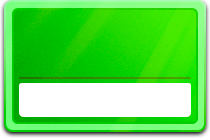
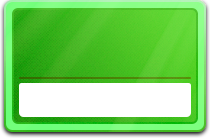
new colors

diff --git a/app/Services/Game/Menu.php b/app/Services/Game/Menu.php
@@ -140,20 +140,29 @@ class Menu {
         ];
 
         if($game->isMenu('color')) {
-            $array = [];
+            $line = [];
+            $i = 0;
             foreach(Game::COLORS as $color => $emoji) {
+                $i++;
                 if(in_array($color, ['white', 'black'])) {
                     continue;
                 }
-                $array[] = [
+                $line[] = [
                     'text' => $emoji,
                     'callback_data' => CDM::toString([
                         CDM::EVENT => CDM::CHANGE_COLOR,
                         CDM::TEXT => $color
                     ])
                 ];
+                if($i>=5) {
+                    $buttonsArray[] = $line;
+                    $line = [];
+                    $i = 0;
+                }
             }
-            $buttonsArray[] = $array;
+            if(!empty($line)) {
+                $buttonsArray[] = $line;
+            }
         }
 
         $line = [];

diff --git a/database/migrations/2024_05_01_204922_new_colors_to_games_table.php b/database/migrations/2024_05_01_204922_new_colors_to_games_table.php
@@ -1,0 +1,34 @@
+<?php
+
+use Illuminate\Database\Migrations\Migration;
+use Illuminate\Database\Schema\Blueprint;
+use Illuminate\Support\Facades\Schema;
+
+class NewColorsToGamesTable extends Migration
+{
+    /**
+     * Run the migrations.
+     *
+     * @return void
+     */
+    public function up()
+    {
+        Schema::table('games', function (Blueprint $table) {
+            $table->string('color_a', 6)->default('red')->change();
+            $table->string('color_b', 6)->default('blue')->change();
+        });
+    }
+
+    /**
+     * Reverse the migrations.
+     *
+     * @return void
+     */
+    public function down()
+    {
+        Schema::table('games', function (Blueprint $table) {
+            $table->enum('color_a', ['purple', 'orange', 'red', 'blue', 'green', 'yellow'])->default('purple')->change();
+            $table->enum('color_b', ['purple', 'orange', 'red', 'blue', 'green', 'yellow'])->default('orange')->change();
+        });
+    }
+}

diff --git a/app/Models/Game.php b/app/Models/Game.php
@@ -18,12 +18,15 @@ class Game extends Model
     use HasFactory;
 
     const COLORS = [
+        'red' => '🔴',
         'purple' => '🟣',
         'orange' => '🟠',
-        'red' => '🔴',
-        'blue' => '🔵',
         'green' => '🟢',
+        'blue' => '🔵',
+        'pink' => '🩷',
         'yellow' => '🟡',
+        'brown' => '🟤',
+        'cyan' => '📗',
         'white' => '⚪',
         'black' => '⚫'
     ];
